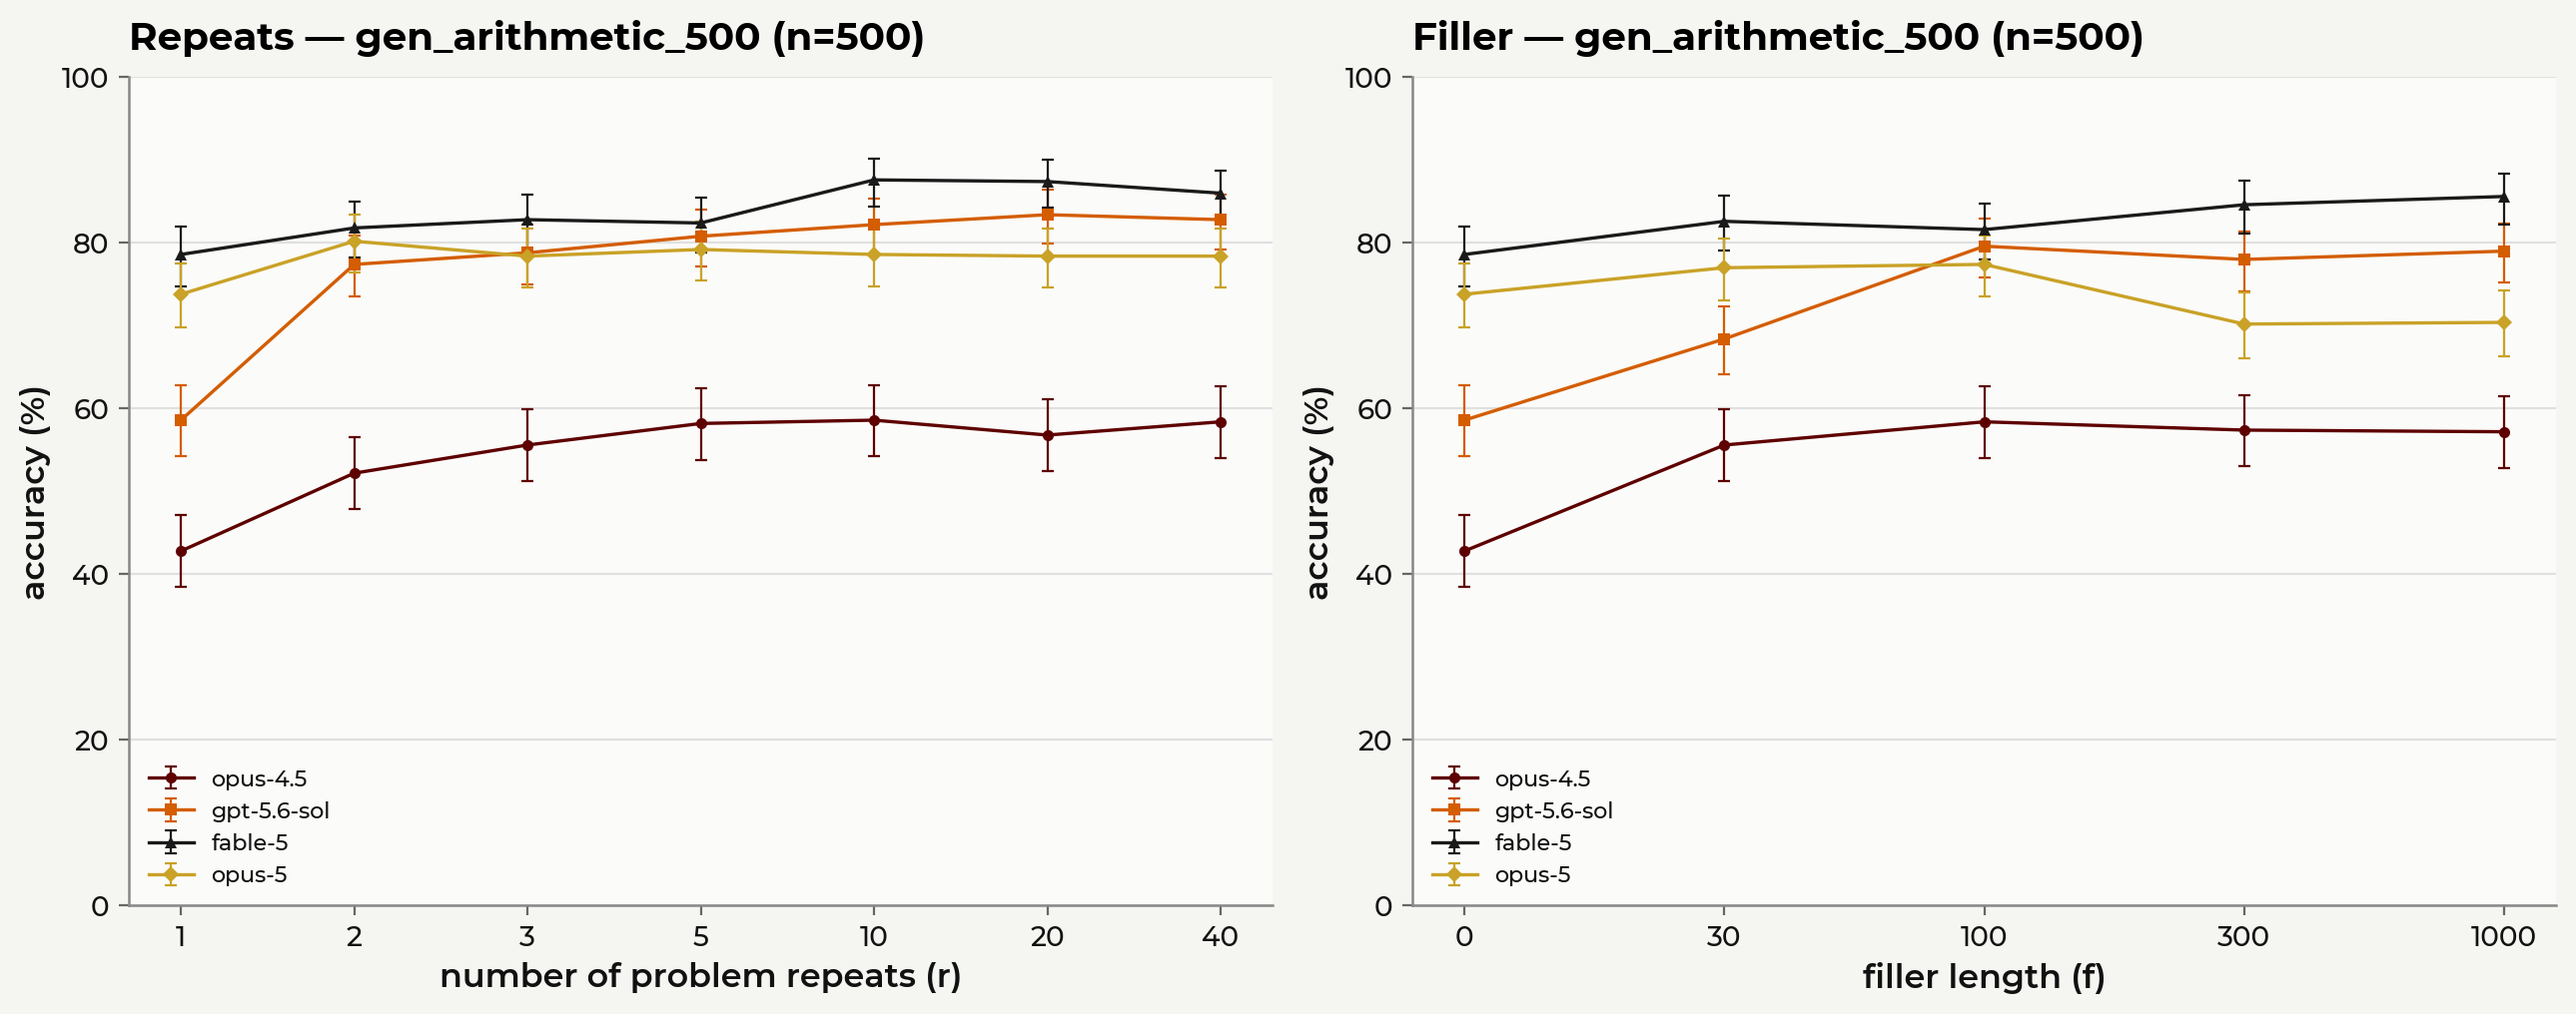
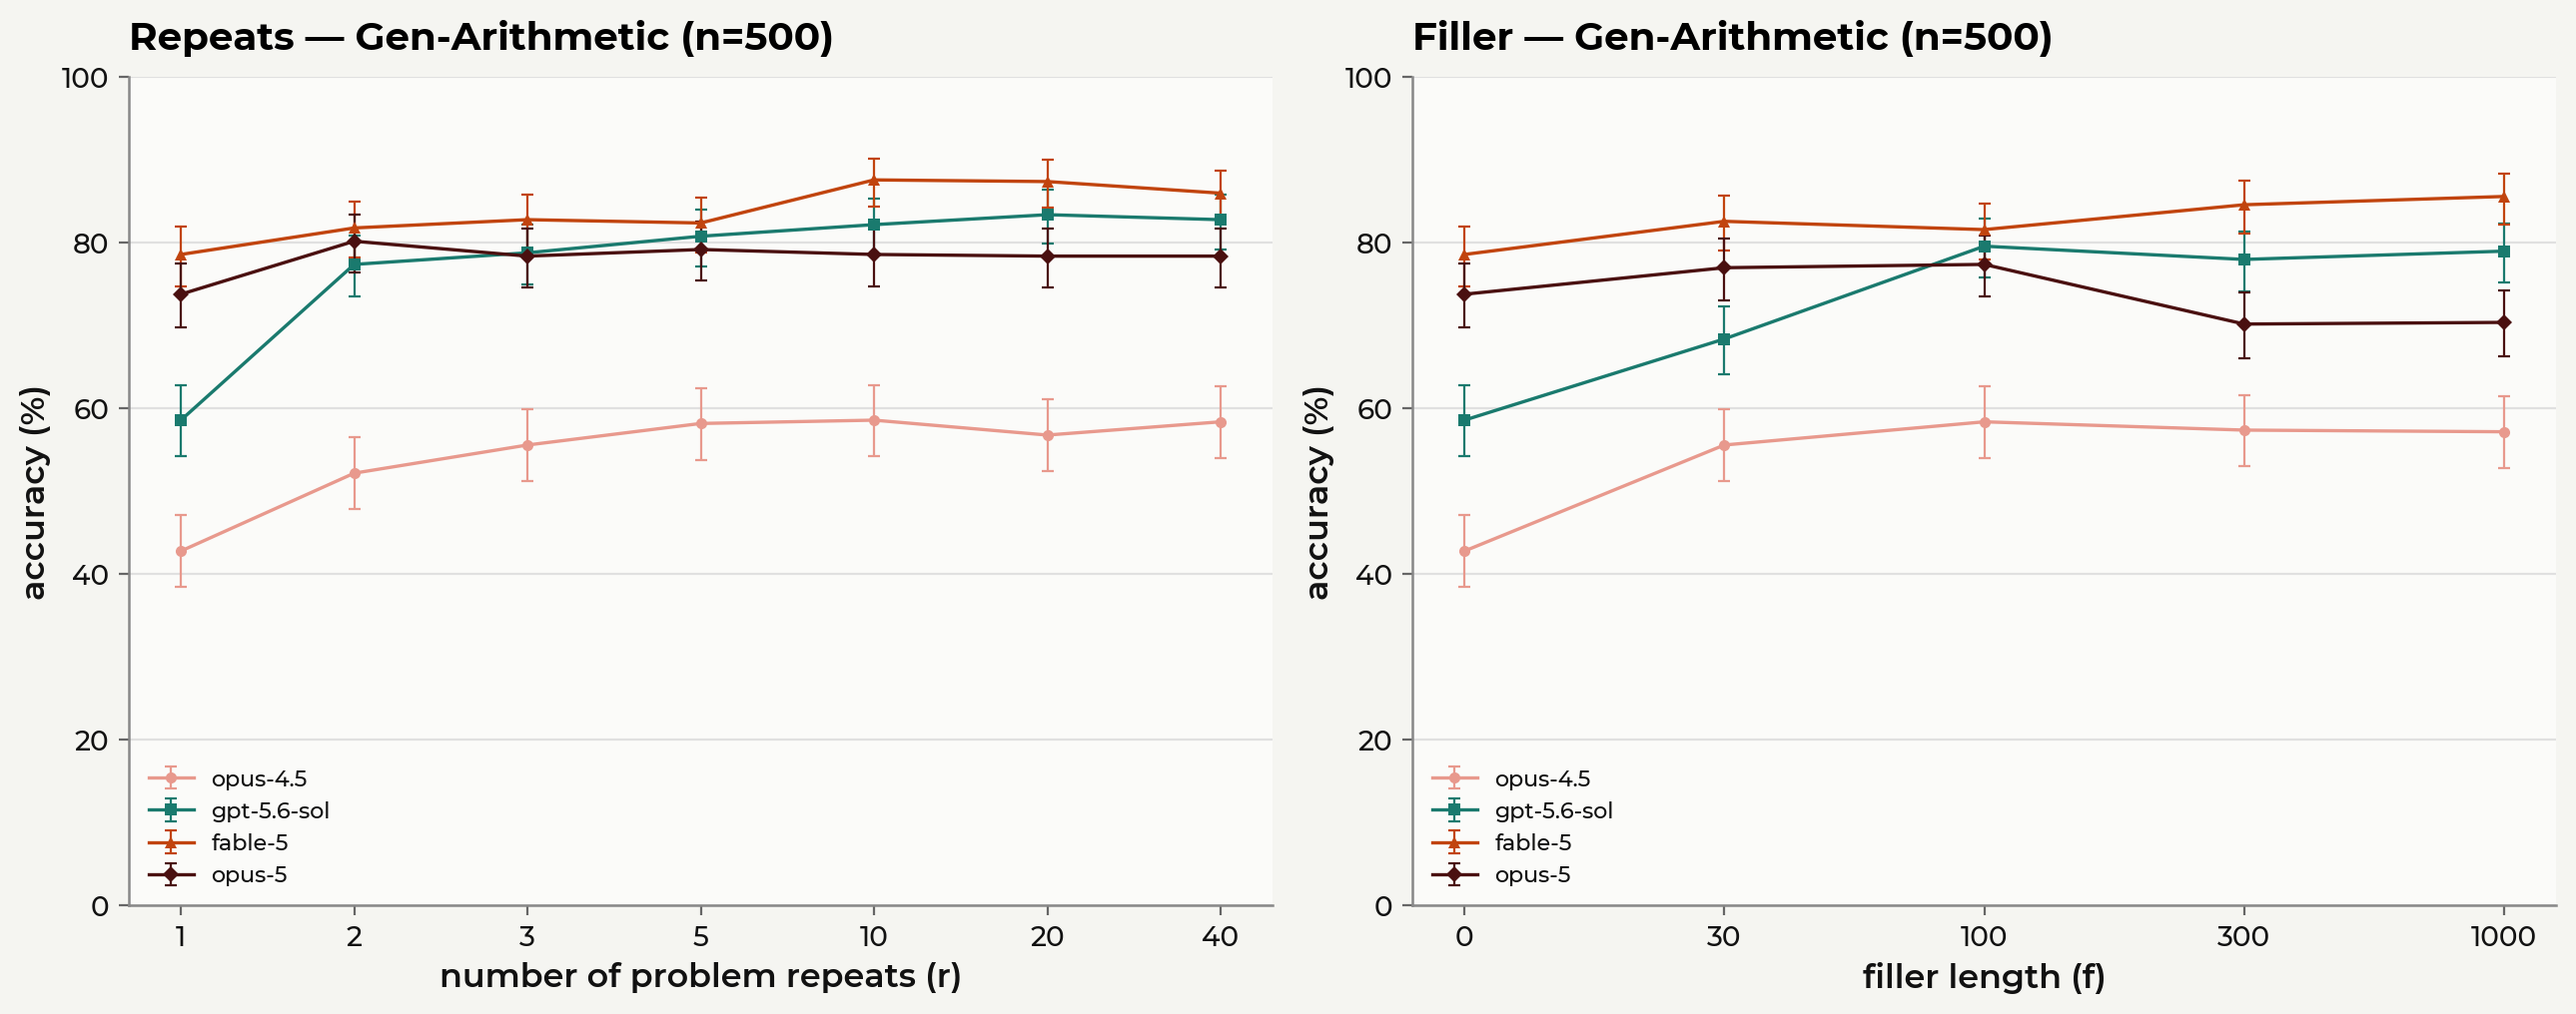
Overhaul baseline-vs-peak figure: colors, labels, and p<0.001 threshold
- config.model_colors: fixed per-model overrides (_MODEL_COLOR_OVERRIDES)
  instead of positional palette cycling, so a model keeps its color
  regardless of list order. Per user request, swap opus-5 to dark
  maroon and opus-4.5 to light red (fable-5 stays burnt orange).
- Also applied config.model_colors to plot_sanity_check_lines.py and
  regenerated the condition_matched_500_lines_*.png figures so line
  and bar figures use the same palette.
- plot_baseline_vs_peak.py:
  - r=/f= condition labels are now horizontal (not rotated) and
    always sit at the bar's base, at a consistent visual distance
    from the x-axis across the 0-100 and 0-50 axis scales (scaled by
    y_max instead of a flat data-unit offset).
  - Label color now always uses _readable_text_color (contrast-aware
    against that bar's own color+alpha) instead of switching to flat
    gray for short bars — fixes low-contrast white-on-light-red text
    and makes every dataset look like the tall-bar figures.
  - Dropped the "ns" marker entirely; only "*" (significant) prints,
    absence means not significant — less clutter, especially on
    datasets where every condition is non-significant.
- harness/stats.py: paired_ttests takes an `alpha` param (default
  unchanged at 0.05 for existing callers); plot_baseline_vs_peak.py
  passes alpha=0.001 (overridable via --alpha), matching the source
  LessWrong post's own reporting convention.
- Regenerated all 5 baseline-vs-peak and 5 condition_matched_500_lines
[…]

diff --git a/presentation/plot_baseline_vs_peak.py b/presentation/plot_baseline_vs_peak.py
@@ -24,10 +24,13 @@ DEFAULT_RUN_NAME = "condition_matched_500"
 Panel = Tuple[Optional[float], Optional[Dict[str, Any]], Optional[Dict[str, Any]]]  # baseline, peak_repeat_row, peak_filler_row
 
 
-def compute_peaks(spec: Dict[str, Any]) -> Dict[Tuple[str, str], Panel]:
+def compute_peaks(spec: Dict[str, Any], alpha: float = 0.001) -> Dict[Tuple[str, str], Panel]:
     """(model, dataset) -> (baseline_acc, peak_repeat_row, peak_filler_row). A row is None if
-    that dataset's axes don't include that condition kind (e.g. no repeats swept)."""
-    rows = hstats.paired_ttests(spec, None)
+    that dataset's axes don't include that condition kind (e.g. no repeats swept).
+
+    `alpha` (default 0.001, matching the source LessWrong post's own reporting convention,
+    stricter than the usual 0.05) is the Holm-corrected significance cutoff for the '*' marker."""
+    rows = hstats.paired_ttests(spec, None, alpha=alpha)
     by_panel: Dict[Tuple[str, str], List[Dict[str, Any]]] = defaultdict(list)
     for r in rows:
         by_panel[(r["model"], r["dataset"])].append(r)
@@ -43,6 +46,16 @@ def compute_peaks(spec: Dict[str, Any]) -> Dict[Tuple[str, str], Panel]:
     return result
 
 
+def _readable_text_color(hex_color: str, alpha: float) -> str:
+    """White or near-black, whichever reads against `hex_color` rendered at `alpha` over the
+    figure's white background — a fixed white broke down on lighter bars (e.g. opus-4.5's
+    light-red peak bars), where it was nearly invisible."""
+    r, g, b = (int(hex_color[i:i + 2], 16) for i in (0, 2, 4))
+    r, g, b = (alpha * c + (1 - alpha) * 255 for c in (r, g, b))
+    luminance = 0.299 * r + 0.587 * g + 0.114 * b
+    return "white" if luminance < 150 else "#222222"
+
+
 def _cond_short_label(cond: str) -> str:
     """'repeat_r10+md' -> 'r=10'; 'filler_f300+md' -> 'f=300'."""
     base = cond.split("+")[0]
@@ -52,16 +65,17 @@ def _cond_short_label(cond: str) -> str:
 
 
 def plot_one_dataset(dataset: str, peaks: Dict[Tuple[str, str], Panel], models: List[str],
-                     out_path: Path) -> Path:
+                     out_path: Path, alpha: float = 0.001) -> Path:
     fig, ax = plt.subplots(figsize=(max(7, 2.2 * len(models)), 5.5))
     width = 0.25
     group_gap = 1.0
     x0 = 0.0
     xticks, xticklabels = [], []
     y_max = 50 if dataset.startswith("nhop") else 100
-    # A bar too short (e.g. 4-hop's few-percent accuracies) can't fit the condition label
-    # inside it — below this height, the label prints just above the bar instead.
-    short_bar_cutoff = 0.12 * y_max
+    # A flat data-unit offset (e.g. "1.0") would sit at a different physical height on a 0-50
+    # axis than on a 0-100 one, since the same figure height maps to twice the pixels-per-unit —
+    # scale the gap by y_max so every dataset's labels sit the same visual distance from the bar.
+    label_gap = y_max * 0.01
     colors = config.model_colors(models)
 
     for model in models:
@@ -81,23 +95,16 @@ def plot_one_dataset(dataset: str, peaks: Dict[Tuple[str, str], Panel], models: 
             centers.append(xpos)
             ax.bar(xpos, val, width=width * 0.92, color=color,
                    alpha=1.0 if bi == 0 else 0.75, edgecolor="#111111", linewidth=0.6)
-            # The accuracy value + significance marker sit at the bar top; the condition label
-            # (peak bars only) is printed vertically at the bar's base, inside the bar, so it
-            # never competes for space with the value/marker above — UNLESS the bar is too
-            # short to hold it (e.g. 4-hop's few-percent accuracies), in which case it prints
-            # just above the value/marker instead, stacked, rather than spilling out of a bar
-            # too short to contain it.
-            sig_marker = f" {'*' if row['sig_holm'] else 'ns'}" if row is not None else ""
-            ax.text(xpos, val + 1.0, f"{val:.1f}%{sig_marker}", ha="center", va="bottom",
+            # The accuracy value + significance marker sit just above the bar top; the condition
+            # label (peak bars only) sits at the bar's base, in a color chosen to read against
+            # that bar's own color, regardless of the bar's height.
+            sig_marker = " *" if (row is not None and row["sig_holm"]) else ""
+            ax.text(xpos, val + label_gap, f"{val:.1f}%{sig_marker}", ha="center", va="bottom",
                    fontsize=7.5, fontweight="bold")
             if row is not None:
                 cond_txt = _cond_short_label(row["condition"])
-                if val >= short_bar_cutoff:
-                    ax.text(xpos, 1.0, cond_txt, ha="center", va="bottom", fontsize=7,
-                           color="white", rotation=90)
-                else:
-                    ax.text(xpos, val + y_max * 0.055, cond_txt, ha="center", va="bottom",
-                           fontsize=7, color="#333333", rotation=90)
+                ax.text(xpos, label_gap, cond_txt, ha="center", va="bottom", fontsize=6.5,
+                       color=_readable_text_color(colors[model], 0.75))
         group_center = x0 + width
         xticks.append(group_center)
         xticklabels.append(config.short_model(model))
@@ -115,8 +122,9 @@ def plot_one_dataset(dataset: str, peaks: Dict[Tuple[str, str], Panel], models: 
     ax.set_ylim(0, y_max)
     ax.set_title(f"Baseline vs peak — {config.short_dataset(dataset)}")
     fig.text(0.5, 0.01,
-             "Peak = highest-scoring repeat/filler condition per model. Label = condition, "
-             "then '*' (Holm-corrected paired t-test p<0.05 vs baseline) or 'ns'.",
+             "Peak = highest-scoring repeat/filler condition per model (labeled at each bar's "
+             f"base). '*' = significant vs baseline (Holm-corrected paired t-test, p<{alpha}); "
+             "unmarked = not significant.",
              ha="center", fontsize=8, color="#333333")
     fig.tight_layout(rect=(0, 0.05, 1, 1))
     out_path.parent.mkdir(parents=True, exist_ok=True)
@@ -132,6 +140,9 @@ def main(argv: List[str] | None = None) -> int:
     ap.add_argument("--models", help="comma-separated model ids; default: the chosen --run's own list")
     ap.add_argument("--dataset", action="append", help="dataset id (repeatable); default: all in --run")
     ap.add_argument("--out-dir", default=str(config.FIGURES_DIR))
+    ap.add_argument("--alpha", type=float, default=0.001,
+                    help="Holm-corrected significance cutoff for the '*' marker (default 0.001, "
+                         "matching the source LessWrong post's own reporting convention)")
     args = ap.parse_args(argv)
 
     apply_style()
@@ -141,12 +152,12 @@ def main(argv: List[str] | None = None) -> int:
     models = spec["models"]
     datasets = args.dataset or list(spec["axes"].keys())
 
-    peaks = compute_peaks(spec)
+    peaks = compute_peaks(spec, alpha=args.alpha)
 
     out_dir = Path(args.out_dir)
     for dataset in datasets:
         out = out_dir / f"{args.run}_baseline_vs_peak_{dataset}.png"
-        plot_one_dataset(dataset, peaks, models, out)
+        plot_one_dataset(dataset, peaks, models, out, alpha=args.alpha)
         print(f"wrote {out}")
         for model in models:
             baseline_acc, peak_repeat, peak_filler = peaks.get((model, dataset), (None, None, None))

diff --git a/harness/config.py b/harness/config.py
@@ -66,13 +66,26 @@ _PROVIDER_PALETTES: Dict[str, List[str]] = {
 }
 _OTHER_PALETTE = ["666666", "1a1a1a", "c9a227"]
 
+# Fixed per-model shade, so a model's color stays the same regardless of what order `models`
+# lists it in (unlike cycling a provider's palette positionally). Any model not listed here
+# falls back to that positional cycling.
+_MODEL_COLOR_OVERRIDES: Dict[str, str] = {
+    "anthropic/claude-opus-5": "4a1010",     # dark maroon
+    "anthropic/claude-fable-5": "c1440e",    # burnt orange
+    "anthropic/claude-opus-4.5": "e8998d",   # light red
+}
+
 
 def model_colors(models: List[str]) -> Dict[str, str]:
-    """model id -> hex color (no '#'), grouped by provider family (see above). Within a
-    provider, models get distinct shades in the order they appear in `models`."""
+    """model id -> hex color (no '#'), grouped by provider family (see above). Known models get
+    a fixed shade (`_MODEL_COLOR_OVERRIDES`); any other model in the same provider gets the next
+    unused shade in that provider's palette, in the order it appears in `models`."""
     counters: Dict[str, int] = defaultdict(int)
     colors: Dict[str, str] = {}
     for m in models:
+        if m in _MODEL_COLOR_OVERRIDES:
+            colors[m] = _MODEL_COLOR_OVERRIDES[m]
+            continue
         provider = m.split("/")[0] if "/" in m else ""
         palette = _PROVIDER_PALETTES.get(provider, _OTHER_PALETTE)
         colors[m] = palette[counters[provider] % len(palette)]

diff --git a/harness/stats.py b/harness/stats.py
@@ -133,11 +133,13 @@ def _holm(pvals: List[float]) -> List[float]:
     return adj
 
 
-def paired_ttests(spec: Dict[str, Any], method: str) -> List[Dict[str, Any]]:
+def paired_ttests(spec: Dict[str, Any], method: str, alpha: float = 0.05) -> List[Dict[str, Any]]:
     """Paired t-test of each condition vs its baseline, with Holm correction within each panel.
 
     The family for the Holm adjustment is the set of (condition vs baseline) tests within one
     (model, dataset) panel — i.e. all the r/f points compared to the single baseline of that panel.
+    `alpha` is the Holm-corrected significance cutoff (default 0.05); pass a stricter value (e.g.
+    0.001, matching the source paper's own reporting convention) for a more conservative marker.
     """
     scores = load_item_scores(spec, method)
     by_panel: Dict[Tuple[str, str, str], List[str]] = defaultdict(list)
@@ -163,7 +165,7 @@ def paired_ttests(spec: Dict[str, Any], method: str) -> List[Dict[str, Any]]:
             })
         for row, p_holm in zip(panel, _holm([r["p"] for r in panel])):
             row["p_holm"] = p_holm
-            row["sig_holm"] = p_holm < 0.05
+            row["sig_holm"] = p_holm < alpha
         rows.extend(panel)
     return rows
 
